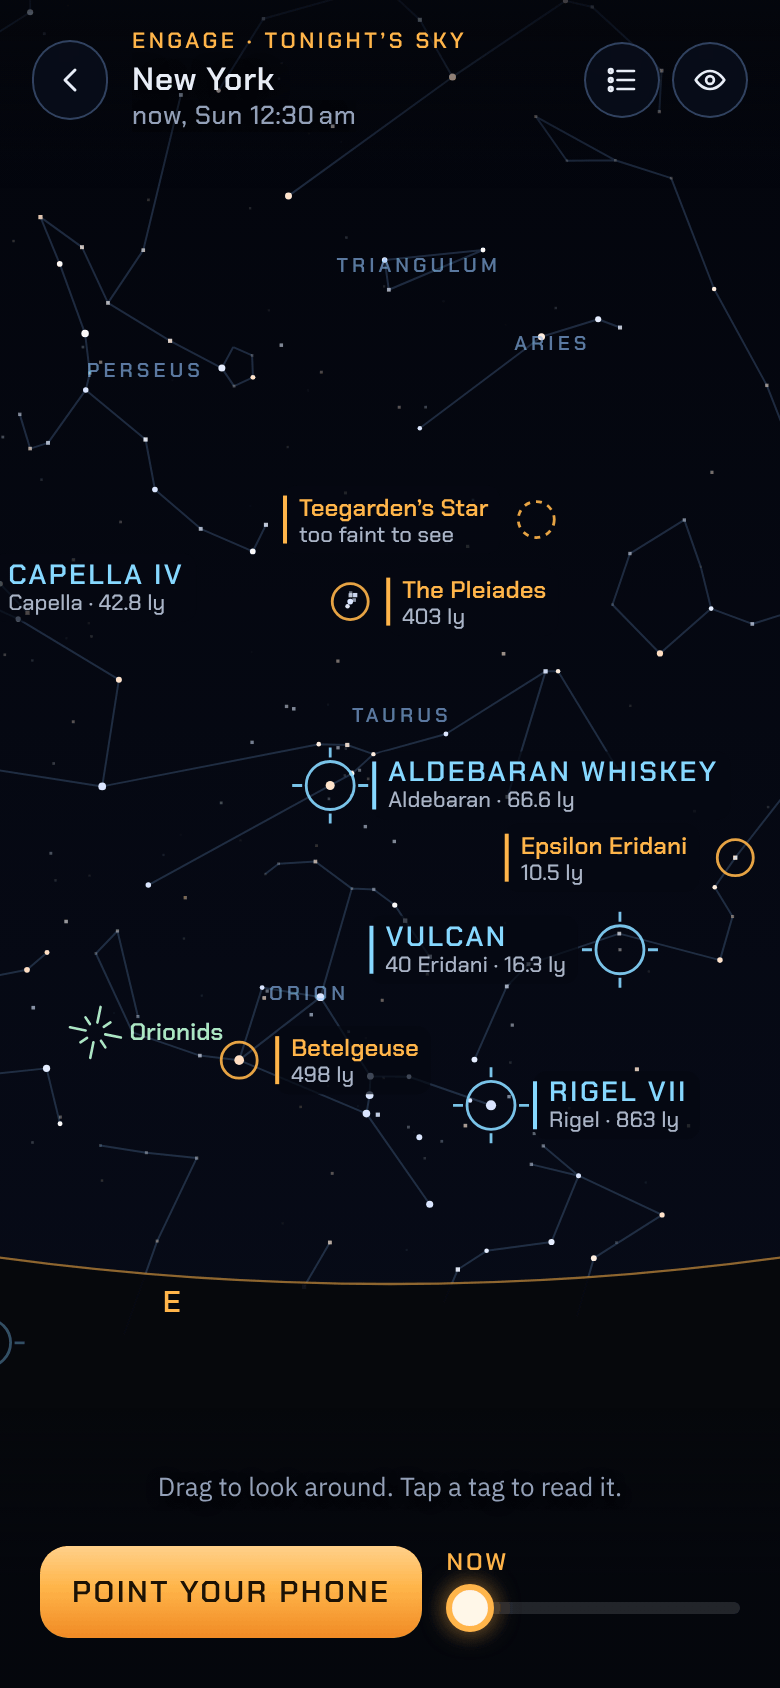
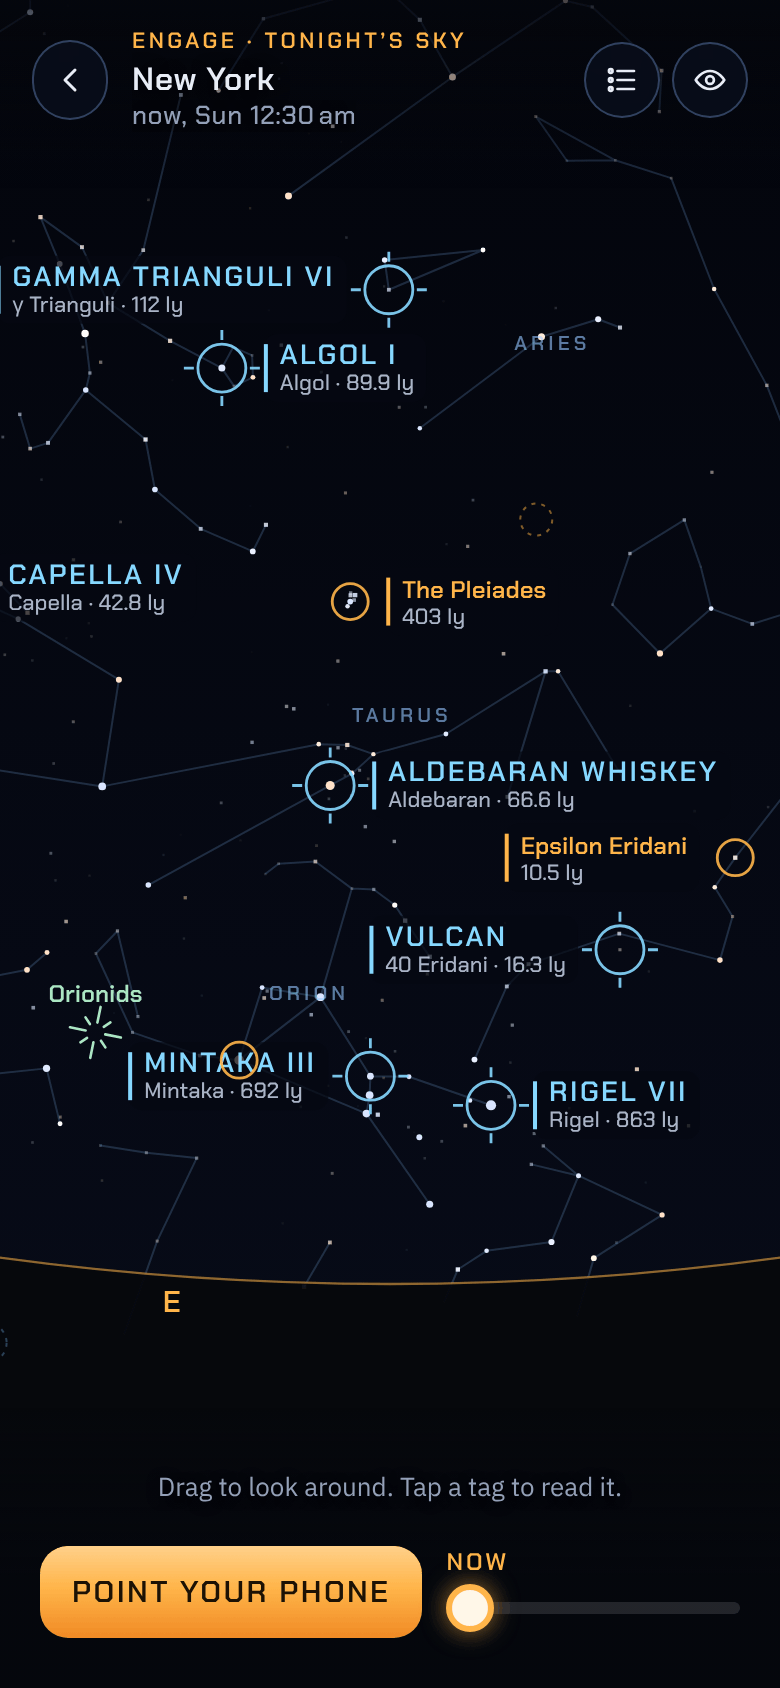
Tonight's sky: a whole tag only for the stars you can see, a quiet ring for the rest
With 28 of Starfleet's stars on the sky, the ones below the horizon or too faint for your sky drew a full tag each
("below the horizon", "too faint to see") over the few you could actually find. Now only a star that is up and
bright enough gets its ring, cross-hairs, name and line; the others are a thin dashed ring, still there to tap,
and the one you choose is always drawn in full. The list still names every one and says which are too faint or
below. A name also goes on the side of its star that keeps clear of another tag's ring, so Merak II's no longer
runs into Mizar II's. Pictures of tonight's sky redrawn. Answers "Starfleet's charts: from 13 stars to about 30"
(thin tonight's tags as described).

Claude-Session: https://claude.ai/code/session_01PQbLNVDaib7dGBXFANm7XP

diff --git a/js/tonight.js b/js/tonight.js
@@ -417,7 +417,13 @@ function draw() {
 
   drawGround();
 
-  // The tags: Starfleet's names, then Engage's other destinations.
+  // The tags: Starfleet's names, then Engage's other destinations. First where each whole tag's ring will be, so a
+  // name can be put on the side of its star that keeps clear of the others' rings (Merak II's and Mizar II's).
+  ringsAhead = [];
+  for (const t of tags) {
+    const p = project(t.local);
+    if (p && p.z >= 0.05 && (sel?.kind === 'star' && sel.i === t.i || (t.alt >= 0 && t.seen))) ringsAhead.push({ x: p.x, y: p.y, r: (t.chart ? 19 : 9) + 2, i: t.i });
+  }
   for (const t of tags) drawTag(t);
   drawRadiant();
 
@@ -585,6 +591,7 @@ const TAG = {
   day: { trek: '134, 216, 255', other: '255, 181, 74', sub: '200, 210, 230', subA: 0.85 },
   night: { trek: '255, 255, 255', other: '236, 196, 180', sub: '255, 240, 236', subA: 1, otherSub: '226, 200, 190' },
 };
+let ringsAhead = []; // where this frame's whole tags put their rings: { x, y, r, i }
 let labelBoxes = [], reservedBoxes = 0; // the first few are the page's own: the header, the controls and the daylight notice
 let bodies = [];   // the planets and the Moon drawn last frame: { name, x, y, r, mag }
 let labelled = []; // the names written beside things last frame, with their boxes on screen, for tests
@@ -616,15 +623,29 @@ function label(text, x, y, gap, style) {
 const meets = (b, o) => b.x < o.x + o.w && o.x < b.x + b.w && b.y < o.y + o.h && o.y < b.y + b.h;
 const overlaps = b => labelBoxes.some(o => b.x < o.x + o.w + 4 && o.x < b.x + b.w + 4 && b.y < o.y + o.h && o.y < b.y + b.h);
 
-// A Starfleet tag: a targeting ring on the star, its name and a line under it.
+// A Starfleet tag: a targeting ring on the star, its name and a line under it. Only a star that is up and bright
+// enough to see from your sky gets all of that; the rest (below the horizon, or too faint) are a quiet dashed ring,
+// still there to tap, so 28 of Starfleet's stars don't bury the few you can find tonight. The one chosen is always
+// drawn in full.
 function drawTag(t) {
   const p = project(t.local);
   if (!p || p.z < 0.05 || p.x < -60 || p.x > W + 60 || p.y < -40 || p.y > H + 40) return;
+  const chosen = sel?.kind === 'star' && sel.i === t.i;
   const below = t.alt < 0, faint = !t.seen;
   const trek = !!t.chart;
-  if (below && !trek && !(sel?.kind === 'star' && sel.i === t.i)) return; // only Starfleet's are worth looking down for
+  if (below && !trek && !chosen) return; // only Starfleet's are worth looking down for
   const pal = saved.night ? TAG.night : TAG.day;
   const color = trek ? pal.trek : pal.other;
+  if ((below || faint) && !chosen) {
+    ctx.save();
+    ctx.strokeStyle = `rgba(${color}, ${below ? 0.3 : 0.5})`;
+    ctx.lineWidth = 1;
+    ctx.setLineDash([2, 3]);
+    ctx.beginPath(); ctx.arc(p.x, p.y, trek ? 10 : 8, 0, 7); ctx.stroke();
+    ctx.restore();
+    placed.push({ x: p.x, y: p.y, r: 20, hit: { kind: 'star', i: t.i }, rank: -20, quiet: true });
+    return;
+  }
   const a = below ? 0.4 : 1;
   const R = trek ? 12 : 9;
   ctx.save();
@@ -650,7 +671,9 @@ function drawTag(t) {
   const wSub = ctx.measureText(sub).width;
   const w = Math.max(wName, wSub) + 14, h = 34;
   let x = p.x + R + 9, y = p.y - h / 2;
-  if (x + w > W - 6 || overlaps({ x, y, w, h })) x = p.x - R - 9 - w;
+  const left = p.x - R - 9 - w;
+  const onRing = b => ringsAhead.some(o => o.i !== t.i && b.x < o.x + o.r && o.x - o.r < b.x + b.w && b.y < o.y + o.r && o.y - o.r < b.y + b.h);
+  if (x + w > W - 6 || overlaps({ x, y, w, h }) || (onRing({ x, y, w, h }) && left >= 6 && !onRing({ x: left, y, w, h }) && !overlaps({ x: left, y, w, h }))) x = left;
   const box = { x, y, w, h };
   const reserved = labelBoxes.slice(0, reservedBoxes); // never under the header, the controls or the daylight notice
   if (reserved.some(o => box.x < o.x + o.w && o.x < box.x + box.w && box.y < o.y + o.h && o.y < box.y + box.h) || (overlaps(box) && !trek)) { ctx.restore(); placed.push({ x: p.x, y: p.y, r: 20, hit: { kind: 'star', i: t.i }, rank: -20 }); return; }
@@ -1205,6 +1228,8 @@ function hooks() {
     where(name) { const t = tags.find(x => x.name === name); const i = t ? t.i : cat.byName.get(name); B = basis(); return project(toLocal(sky.f, starDir(i))); },
     // The tags drawn last frame, with their boxes on screen.
     tags: () => placed.filter(q => q.box).map(q => ({ name: nameOf(q.hit), been: !!q.been, ...q.box })),
+    // The tags drawn last frame as a quiet ring alone: below the horizon or too faint to see.
+    rings: () => placed.filter(q => q.quiet).map(q => nameOf(q.hit)),
     tag(name) { const t = tags.find(x => x.name === name); return t && { alt: t.alt, seen: t.seen, mag: t.mag }; },
     // The meteor shower marked on the sky, if one is: its name, where its radiant is on screen, and whether it was drawn.
     get shower() { const sh = sky.shower; return sh ? { name: sh.shower.name, alt: altAz(sh.local).alt, drawn: placed.some(q => q.hit.kind === 'shower') } : null; },

diff --git a/README.md b/README.md
@@ -50,7 +50,7 @@
 - **The warp scale** ([warp.html](https://engage.junkdrawer.works/warp.html), **Warp scale** under the warp slider) shows how far a warp factor really gets you. Pick a place on the ladder, from the Moon and the Sun through Voyager 1, Proxima Centauri, Vulcan’s sun and Deneb to the galactic core, the far side of the galaxy where Voyager was stranded, and Andromeda. With a star chosen at the helm, the link opens on a race to that star, as a rung of its own called **Your course**. Five ships leave Earth together: warp 9.975 (Voyager’s top speed), your own warp factor (it starts at the helm’s), warp 5, warp 1, which is light, and the real Voyager 1. The race clock speeds up as they go, so you see even the slowest arrive: about four years to the galactic core at warp 9.975, 27,000 for light and 473 million for Voyager 1. Each place has a note on what’s there and where Star Trek has been, when you’d arrive, and when the light you see from it set off. The Solar System’s distances are worked out for today. A place leads on to the rooms that know it: a star to the helm and to tonight’s sky, Voyager 1 to her file in long missions, Pluto to New Horizons’. **Share this race** sends a link to the place with your warp factor in it (`warp.html?warp=9.9#vega`), and the address bar always reads the same.
 - **Impulse power**, further down the warp scale’s page, is what the real sky does to a ship that really moves through space. A throttle runs from a full stop to 0.999 of light speed, and the whole sky round the ship is drawn with dead ahead in the middle and dead behind round the rim, heading for the star on the card. As it opens, the stars crowd toward dead ahead (at nine tenths of light speed the forward half of the sky is squeezed within 26° of it), turn bluer in front and redder behind, and the ship’s clock falls behind Earth’s (an hour aboard is 2 hours 18 minutes at home). This is special relativity: aberration, the Doppler shift and time dilation, worked out in `js/impulse.js`. A card says why warp shows none of it: a warp bubble moves space with the ship standing still inside.
 - **Long missions** ([missions.html](https://engage.junkdrawer.works/missions.html), the dish on the bridge) tracks the real ships on the longest missions: Voyager 1 and 2, New Horizons, the James Webb Space Telescope, and the silent Pioneer 10 and 11. Their positions are worked out for this moment from NASA JPL Horizons trajectories, so the distances tick up as you watch. Each file has how far she is from the Sun and from Earth, her speed, how long a signal takes, her next round-number milestone and any light-day mark she has just passed (Voyager 1 went by one light-day from Earth on 18 November 2026), the mission so far, what she’s doing now and where she’s bound, with **Set course** for the star she’ll pass, and from Voyager 1’s a race to her on the warp scale. **Hail her** sends a message at the speed of light and shows when it arrives and when an answer could get back; it remembers the hail, so you can come back tomorrow to see it land. Webb gets a near-Earth view of her loop around L2. **Share her file** sends a link to the ship, with how far she is and how long a signal takes right now.
-- **Tonight’s sky** ([tonight.html](https://engage.junkdrawer.works/tonight.html), the horizon on the bridge) shows the real sky from where you’re standing, with the 28 stars Starfleet knows tagged on it: Vulcan at 40 Eridani, Farpoint at Deneb, Rigel VII, the Vega colony, Wolf 359, Mintaka III in Orion’s Belt, Merak II and Mizar II in the Big Dipper, Regulus V and more, plus every other star Engage has notes on. **Point your phone** and it follows your compass and tilt, so you can hold it up to the real sky (the screen stays awake while you do); drag sideways if the compass is a little off. Without sensors, drag to look around. Tags say when a star is too faint for your sky (city, suburbs or dark) or below the horizon, and the Moon and naked-eye planets are drawn too. The constellations’ stick figures are named in small capitals once it’s dark and the view is wide enough to take them in, and a star’s card says which one it is in. Tap a tag for the story, where to look and how old its light is, then **Set course** to fly there, or **Share this star** to send a link that opens its card in someone else’s sky. A card leads on, too: a star on the warp scale’s ladder to its race, the Moon, Mars and Jupiter to how long they’d take at warp 9, and the Moon and each planet to the survey file it is the Solar System’s example of. Stars you’ve flown to on the bridge carry a small Starfleet delta, their cards say on which stardate you dropped out of warp there, and any other star in your log gets a tag of its own. The time slider runs to 12 hours ahead, and in daylight it offers the evening. The list of stars opens with tonight’s plan in three lines: when it’s dark and what the Moon does, the best time to look (when the most of Starfleet’s stars are well up and bright enough, with a button that moves the time slider there), and any of the year’s eight main meteor showers that is active, with the point its meteors come from marked on the sky. It uses your location only if you share it, rounded to about 10 km and kept on your phone; otherwise it guesses from your time zone or you pick a city. Night vision turns everything red to keep your eyes dark-adapted, and the bridge wears it too: **Set course** on a star’s card opens a red bridge, with its big buttons drawn as outlines and the flash of going to warp kept faint. Bridge settings has the same switch.
+- **Tonight’s sky** ([tonight.html](https://engage.junkdrawer.works/tonight.html), the horizon on the bridge) shows the real sky from where you’re standing, with the 28 stars Starfleet knows tagged on it: Vulcan at 40 Eridani, Farpoint at Deneb, Rigel VII, the Vega colony, Wolf 359, Mintaka III in Orion’s Belt, Merak II and Mizar II in the Big Dipper, Regulus V and more, plus every other star Engage has notes on. **Point your phone** and it follows your compass and tilt, so you can hold it up to the real sky (the screen stays awake while you do); drag sideways if the compass is a little off. Without sensors, drag to look around. A star that is up and bright enough for your sky (city, suburbs or dark) gets its whole tag; one that is too faint or below the horizon is a quiet dashed ring you can still tap, and the list says which, and the Moon and naked-eye planets are drawn too. The constellations’ stick figures are named in small capitals once it’s dark and the view is wide enough to take them in, and a star’s card says which one it is in. Tap a tag for the story, where to look and how old its light is, then **Set course** to fly there, or **Share this star** to send a link that opens its card in someone else’s sky. A card leads on, too: a star on the warp scale’s ladder to its race, the Moon, Mars and Jupiter to how long they’d take at warp 9, and the Moon and each planet to the survey file it is the Solar System’s example of. Stars you’ve flown to on the bridge carry a small Starfleet delta, their cards say on which stardate you dropped out of warp there, and any other star in your log gets a tag of its own. The time slider runs to 12 hours ahead, and in daylight it offers the evening. The list of stars opens with tonight’s plan in three lines: when it’s dark and what the Moon does, the best time to look (when the most of Starfleet’s stars are well up and bright enough, with a button that moves the time slider there), and any of the year’s eight main meteor showers that is active, with the point its meteors come from marked on the sky. It uses your location only if you share it, rounded to about 10 km and kept on your phone; otherwise it guesses from your time zone or you pick a city. Night vision turns everything red to keep your eyes dark-adapted, and the bridge wears it too: **Set course** on a star’s card opens a red bridge, with its big buttons drawn as outlines and the flash of going to warp kept faint. Bridge settings has the same switch.
 - The tab is named after what’s on screen (the star you’re holding at, the creature in the tank, the ship, the survey file, the race, the star’s card), so history and bookmarks say which.
 - No account and no server. The log and where you are stay in your browser. It works offline and installs to a phone’s home screen. Bridge settings says so under **On this device**: “Kept on this device: all eight rooms work with no signal” once the copy is whole (a count of files while it fills), an **Install Engage** button where the browser offers one, on an iPhone or iPad the way to do it (Share, then Add to Home Screen) and, in Safari, why: Safari deletes a site’s saved data after seven days of use without a visit, but not an app’s on the Home Screen ([WebKit, 24 March 2020](https://webkit.org/blog/10218/full-third-party-cookie-blocking-and-more/)). After the first log entry or jar, Engage asks the browser once to keep its storage, and settings says when it has agreed. Android’s install sheet shows five of the pictures above. **Ship’s records**, at the foot of Bridge settings, keeps all of it safe: **Save a copy** downloads one dated file of everything Engage keeps (`engage-records-2026-11-19.json`), and **Restore from a copy** reads one back on any phone or browser, says what is in it (“212 log entries, 14 creatures in jars, 9 simulations”) and offers **Add to what’s here** (logs, runs, encounters, jars and hails put together without doubles; settings stay as they are here) or **Replace what’s here**, each asked twice on the button. On Android, a long press on its icon goes straight to tonight’s sky, the Kobayashi Maru, first contact or long missions, each with the picture from its round button.
 
